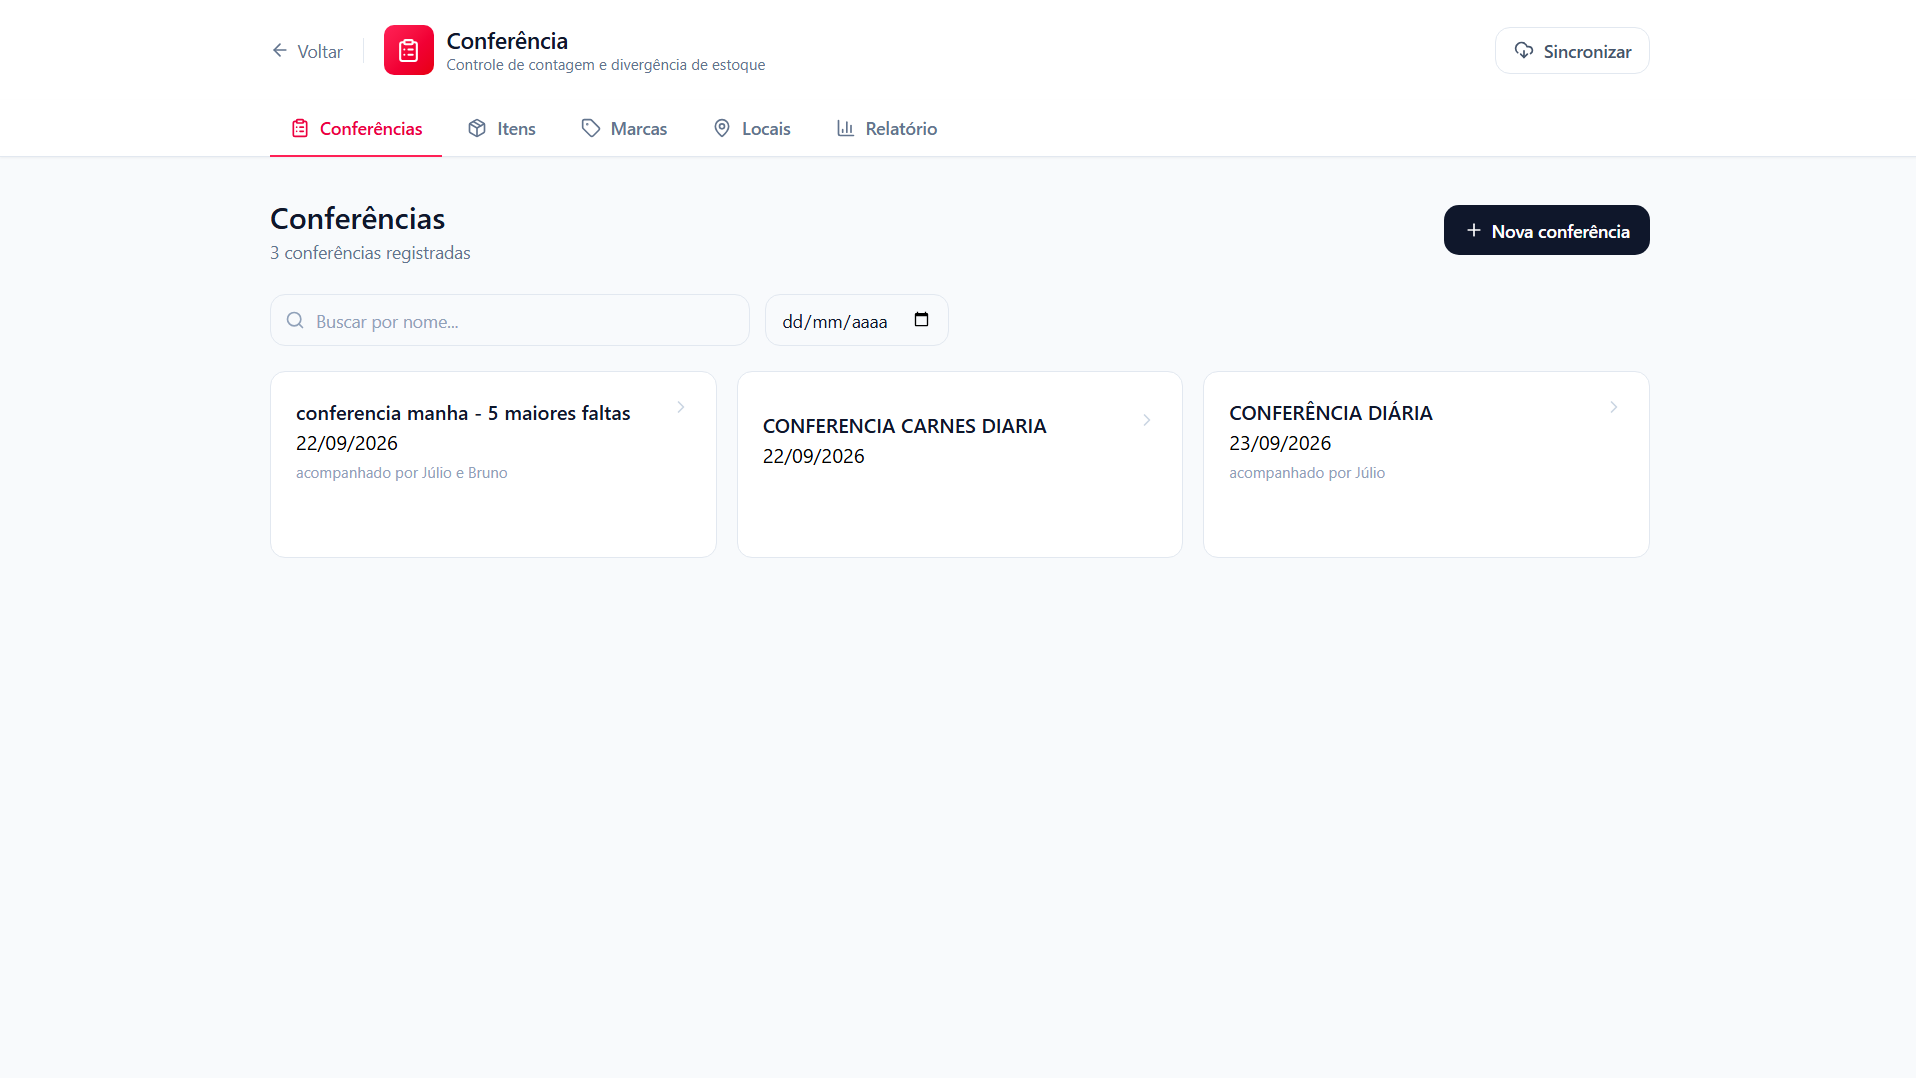
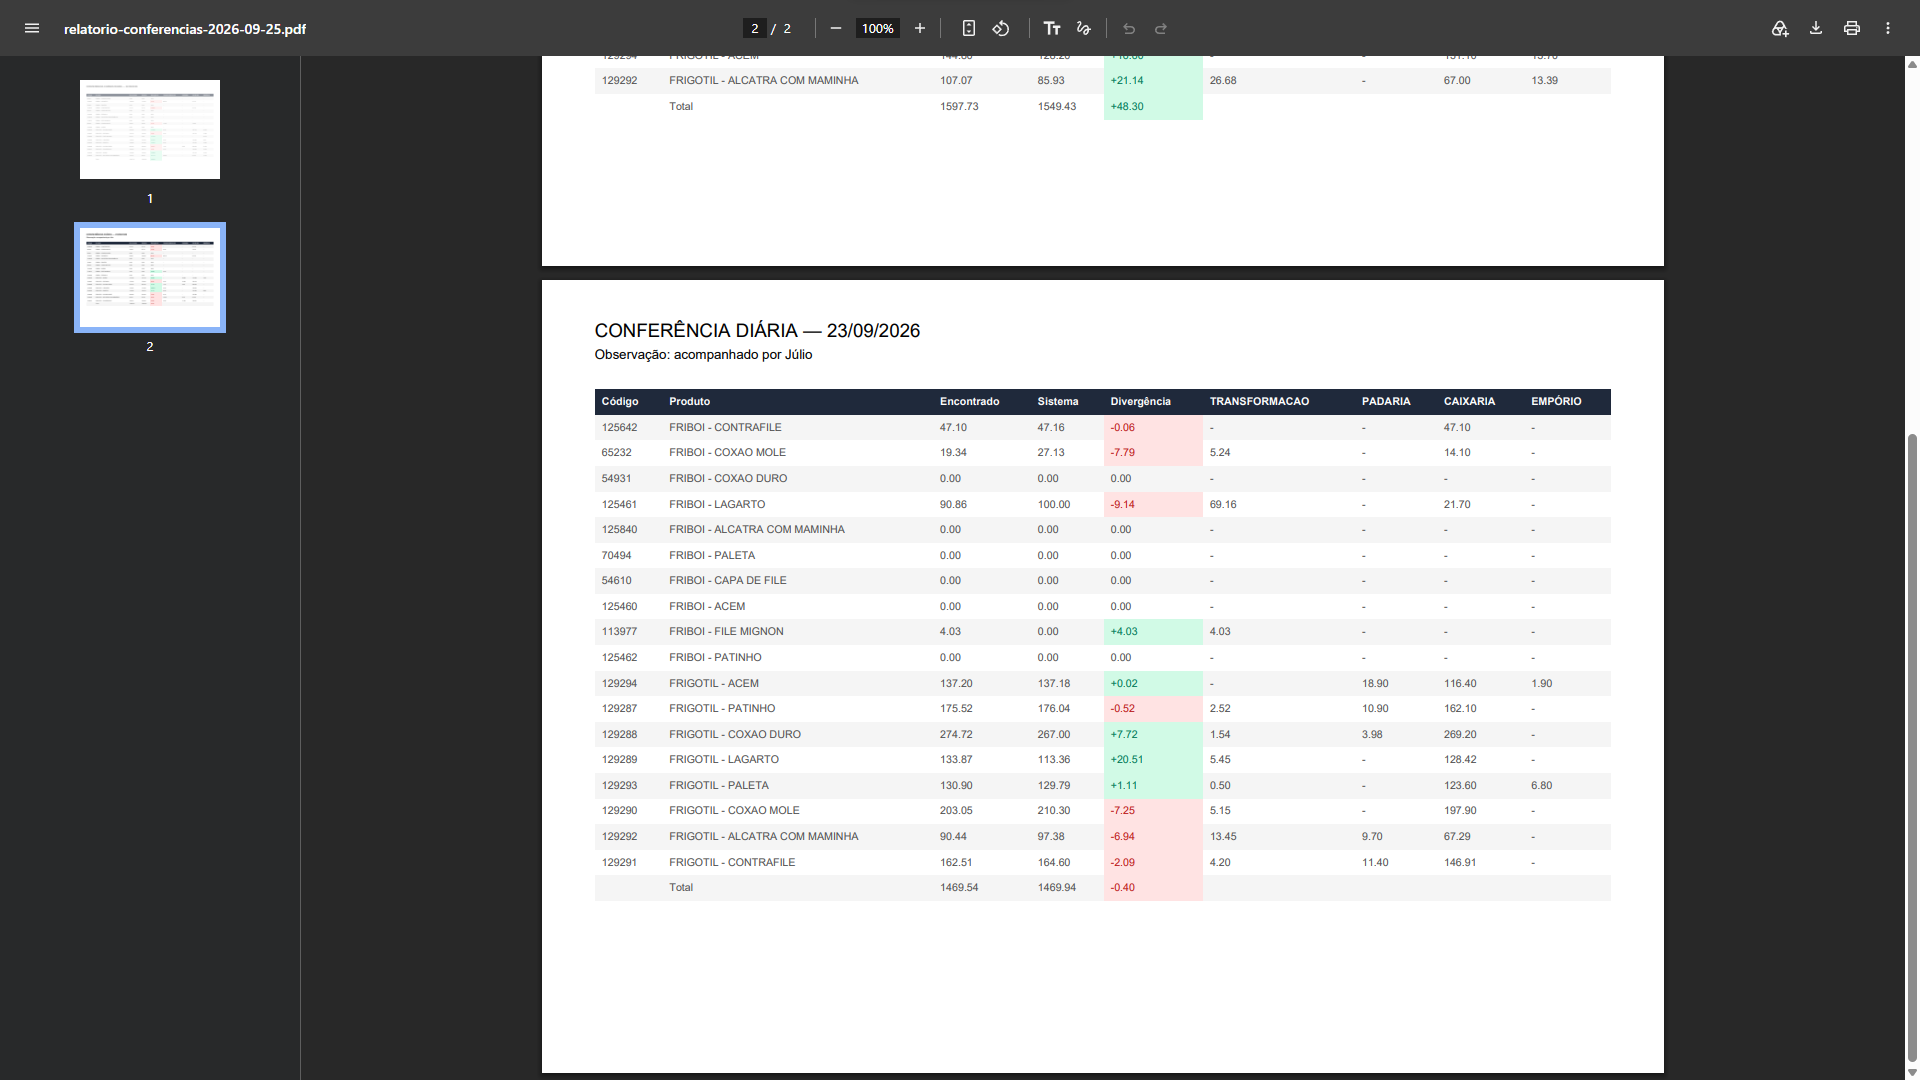
feat: adição de demo no readme

diff --git a/README.md b/README.md
@@ -74,6 +74,11 @@ Esse desenho garante que a pessoa fazendo a conferência físico nunca é interr
 
 ---
 
+![Relatório gerado pela aplicação](./public/screenshot1.png)
+Resultado do relatório exportado em .pdf:
+
+---
+
 ## Relatório Power BI - Em desenvolvimento.
 
 ![Relatório Power BI - Em desenvolvimento](./public/powerbirelatory.png)
